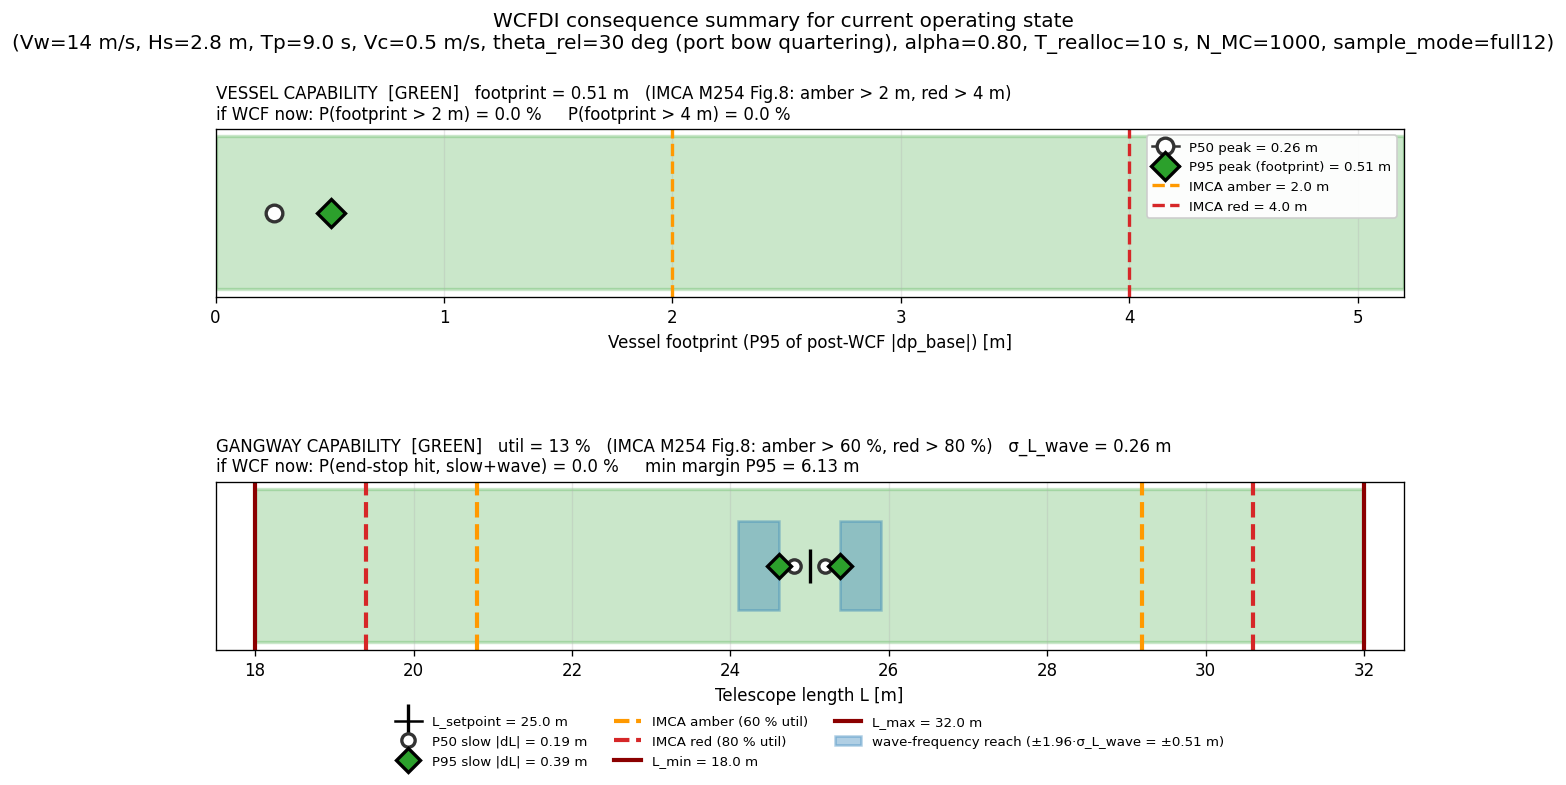
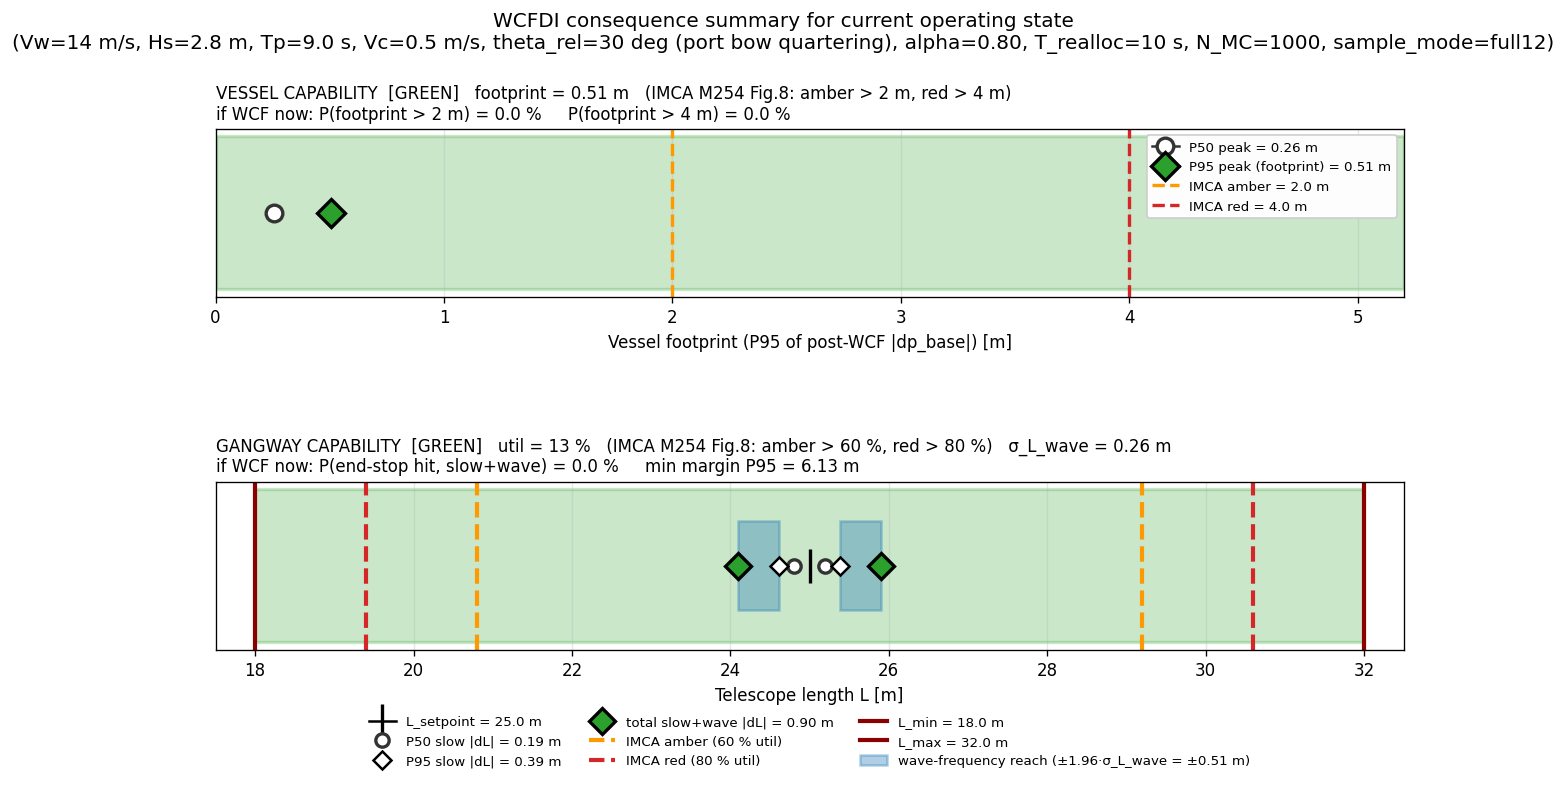
cqa: plot the combined slow+wave demand on the gangway bar
The gangway panel plotted the slow-drift P95 as its primary marker
while the utilisation figure and the end-stop probability were both
computed from gw_p95 + k_wave*sigma_L_wave. The reader had to add the
wave-frequency band to the diamond mentally to arrive at the number
the traffic light was based on.

The combined demand is now the filled diamond, at the outer edge of
the wave-frequency band: 0.39 m slow plus 0.51 m wave gives 0.90 m,
and 0.90 / 7.0 m of available stroke is the 13 % utilisation shown in
the panel title. The slow-only P95 is kept as an open diamond so the
split between the two contributions stays visible.

Linear addition of the slow peak and the wave-frequency level is
retained. Combining a peak with a level in this way is the sound
choice for an end-stop: root-sum-square of two extremes would
underpredict, since the LF and WF components have different crossing
rates and therefore different peak factors.

Changed region(s): [[0.2146, 0.8866, 0.7969, 0.9783], [0.4598, 0.7032, 0.5824, 0.7338]]

diff --git a/cqa/cqa/operator_view.py b/cqa/cqa/operator_view.py
@@ -426,9 +426,22 @@ def plot_operator_summary(summary: OperatorSummary, fig=None):
     p95_lo = L0 - summary.gw_p95
     p95_hi = L0 + summary.gw_p95
     ax.plot([p95_lo, p95_hi], [0, 0],
-            marker="D", markersize=10, color="black",
-            markerfacecolor=bar_colour_gw, markeredgewidth=2,
+            marker="D", markersize=8, color="black",
+            markerfacecolor="white", markeredgewidth=1.5,
             ls="", label=f"P95 slow |dL| = {summary.gw_p95:.2f} m")
+
+    # Combined slow + wave-frequency demand. This is the quantity the
+    # utilisation figure and the end-stop probability are computed from
+    # (gw_p95 + k_wave * sigma_L_wave), so it is drawn as the primary
+    # marker; the slow-only P95 above is kept as the open diamond so the
+    # split between the two contributions stays visible.
+    if use_wave:
+        tot = summary.gw_p95 + delta_wave
+        ax.plot([L0 - tot, L0 + tot], [0, 0],
+                marker="D", markersize=11, color="black",
+                markerfacecolor=bar_colour_gw, markeredgewidth=2,
+                ls="", zorder=6,
+                label=f"total slow+wave |dL| = {tot:.2f} m")
 
     # Wave-frequency envelope around the P95 slow markers (combined reach)
     if use_wave:
